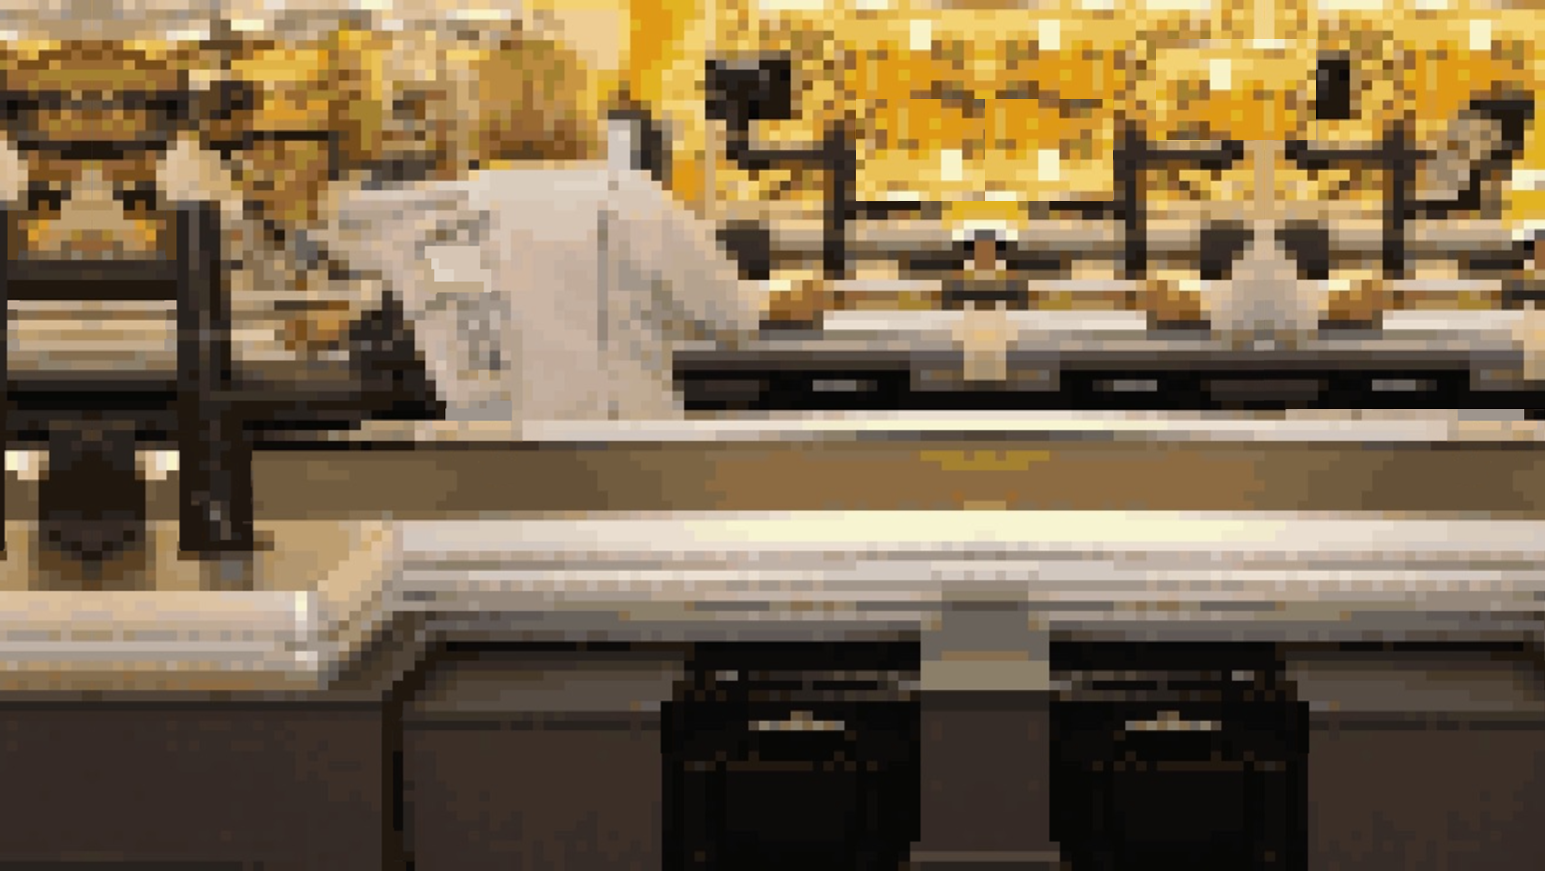
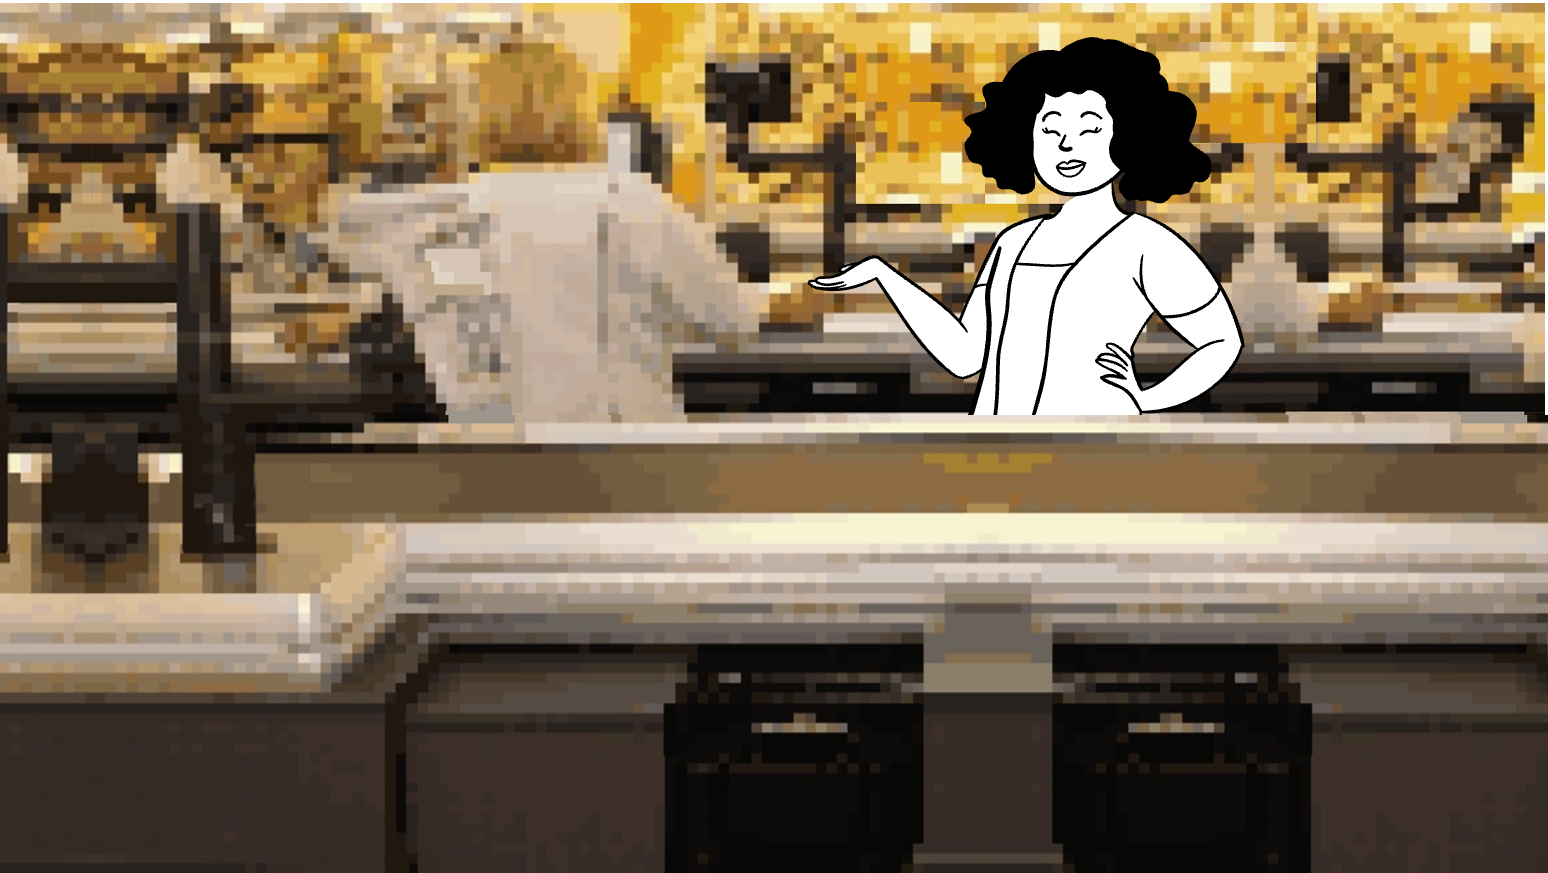
dialogs

diff --git a/src/functions/handle_draws.py b/src/functions/handle_draws.py
@@ -1,9 +1,16 @@
 import pygame
+import random
 
 from config import *
 from functions.speech_bubble import speech_bubble
 
+price = random.randint(3, 13)
+cent = random.randint(97, 99)
+price = str(price) + "," + str(cent)
+
 def handle_draws(self, Cwidth, Cheight):
+    global price
+
     if self.STAGE == "home":
         pass
 
@@ -68,4 +75,31 @@ def handle_draws(self, Cwidth, Cheight):
                 self.sp_b_it += 1
 
         elif self.edeka_stage == 4:
-            pass
+
+            if self.sb_it == 1:
+                text = f"Moin! Das macht einmal {price}€ bitte."
+                sb = speech_bubble(text, (794-(self.player.x+self.player.width))*0.9, True, "r", 24)
+                self.screen.blit(sb, (794 - sb.get_width(), 155 - sb.get_height()))
+            
+            elif self.sb_it == 2:
+                text = "Hallo! Hier bitte. Und, wie hab ich mich geschlagen?"
+                sb = speech_bubble(text, (794-(self.player.x+self.player.width))*0.9, True, "l", 24)
+                self.screen.blit(sb, (self.player.x + self.player.width*0.7, self.player.y - sb.get_height() + 25))
+            
+            elif self.sb_it == 3:
+                text = f"Sehr gut! Aber denk immer dran: Guck lieber zweimal hin, bevor du etwas kaufst. "
+                sb = speech_bubble(text, (794-(self.player.x+self.player.width))*0.9, True, "r", 24)
+                self.screen.blit(sb, (794 - sb.get_width(), 155 - sb.get_height()))
+
+            elif self.sb_it == 4:
+                text = f"Und halte den Abfall, den du produzierst immer moeglichst gering. Es gibt viele Wege und Moeglichkeiten sparsam zu sein..."
+                sb = speech_bubble(text, (794-(self.player.x+self.player.width))*0.9, True, "r", 24)
+                self.screen.blit(sb, (794 - sb.get_width(), 155 - sb.get_height()))
+            
+            elif self.sb_it == 5:
+                self.edeka_buttons_pressable = True
+                self.movement = True
+            
+            if pygame.time.get_ticks() - self.time_interval > self.interval_ms and self.sb_it <= 5:
+                self.time_interval = pygame.time.get_ticks()
+                self.sb_it += 1

diff --git a/src/screens/candy_crush.py b/src/screens/candy_crush.py
@@ -146,7 +146,7 @@ class CandyCrush(pygame.sprite.Sprite):
         self.interval_1_ms = 12000
         self.interval_2_ms = 45000
         if 0 <= self.time_since_start_ms <= self.interval_1_ms:
-            sb = speech_bubble("Sehr gut! Wie es aussieht, hat jemand einige Pfandflaschen im Muelleimer vergessen... Sammle die Pfandflaschen und bringe sie zum Pfandautomaten im Eingang des Supermarktes! Viel Erfolg, dir bleibt nicht viel Zeit... (Du erkennst eine Pfandflasche an dem Pfandsymbol auf dem Etikette.)", 500, True, "l")
+            sb = speech_bubble("Sehr gut! Wie es aussieht, hat jemand einige Pfandflaschen im Muelleimer vergessen... Sammle die Pfandflaschen und bringe sie zum Pfandautomaten im Eingang des Supermarktes! Viel Erfolg, dir bleibt nicht viel Zeit... (Du erkennst eine Pfandflasche an dem Pfandsymbol auf dem Etikette.)", 500, True, "r")
             self.image.blit(sb, (Iwidth//2 - sb.get_width()//2, Iheight//2 - sb.get_height()//2))
         elif self.interval_1_ms <= self.time_since_start_ms <= self.interval_1_ms + self.interval_2_ms:
             #draw the game
@@ -159,7 +159,7 @@ class CandyCrush(pygame.sprite.Sprite):
                 value.movement = True
                 value.active_sprites.remove(value.candy_crush_game)
                 value.active_sprites.remove(value.close_button)
-                value.inventory_screen.items[0][1] = self.saved_bottles
+                value.inventory_screen.items[0][1] += self.saved_bottles
                 value.progress += 0.2
 
         # scale the image to the window size

diff --git a/src/screens/deposit_machine.py b/src/screens/deposit_machine.py
@@ -25,7 +25,7 @@ class DepositeMachine(pygame.sprite.Sprite):
         #work by intervals
         self.time_interval = pygame.time.get_ticks()
         self.start_interval = 0
-        self.interval_ms = 500
+        self.interval_ms = 200
         img_1 = pygame.Surface((600, 600), pygame.SRCALPHA)
         img_1.fill((0, 200, 100))
         img_2 = pygame.Surface((600, 600), pygame.SRCALPHA)
@@ -62,7 +62,7 @@ class DepositeMachine(pygame.sprite.Sprite):
         if pygame.time.get_ticks() - self.start_interval > 1500:
             if "game_class" in kwargs:
                 game_obj = kwargs["game_class"]
-            if self.it < game_obj.inventory_screen.items[0][1]:
+            if 0 < game_obj.inventory_screen.items[0][1]:
                 self.zero_one_first = False
                 self.image.blit(self.put_bottle[self.it_idx], (Iwidth//2-self.put_bottle[self.it_idx].get_width()//2 - 150, Iheight-self.put_bottle[self.it_idx].get_height()))
                 if pygame.time.get_ticks() - self.time_interval > self.interval_ms:
@@ -70,7 +70,6 @@ class DepositeMachine(pygame.sprite.Sprite):
                     self.it_idx += 1
                 if self.it_idx >= len(self.put_bottle):
                     self.it_idx = 0
-                    self.it += 1
                     game_obj.inventory_screen.items[0][1] -= 1
             else:
                 if not self.zero_one_first:

diff --git a/src/functions/handle_edeka.py b/src/functions/handle_edeka.py
@@ -12,7 +12,8 @@ from functions.inits import *
 from functions.speech_bubble import speech_bubble
 
 timer = 0
-check = True
+check_3 = True
+check_4 = True
 
 #load images from assets from home folder
 def load_image_asset(subfolder, file):
@@ -23,7 +24,8 @@ def load_image_asset(subfolder, file):
 
 def handle_edeka(self):
     global timer
-    global check
+    global check_3
+    global check_4
     
     #handle each stage individually
     if self.edeka_stage == 1:
@@ -95,8 +97,8 @@ def handle_edeka(self):
     elif self.edeka_stage == 3:
 
         #stop the players movement so that the dialog can be played
-        if pygame.time.get_ticks() - timer > 500 and check:
-            check = False
+        if pygame.time.get_ticks() - timer > 500 and check_3:
+            check_3 = False
             self.movement = False
 
         #go back to the previous stage
@@ -126,8 +128,14 @@ def handle_edeka(self):
 
             #go to the next stage
             self.edeka_stage = 4
+            timer = pygame.time.get_ticks()
 
     elif self.edeka_stage == 4:
+
+        #stop the players movement so that the dialog can be played
+        if pygame.time.get_ticks() - timer > 200 and check_4:
+            check_4 = False
+            self.movement = False
 
         #go back to the previous stage
         if self.player.x <= -self.player.width//2:

diff --git a/src/functions/inits.py b/src/functions/inits.py
@@ -131,6 +131,8 @@ def init_edeka(self):
     self.interval_ms = 5000
     self.sp_b_it = -1
 
+    self.sb_it = -1
+
     #load images from assets from home folder
     def load_image_asset(subfolder, file):
         if subfolder is not None:
